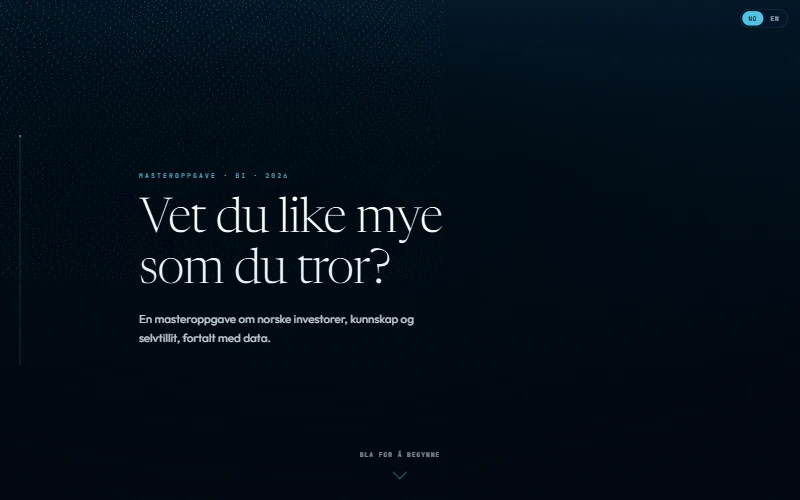
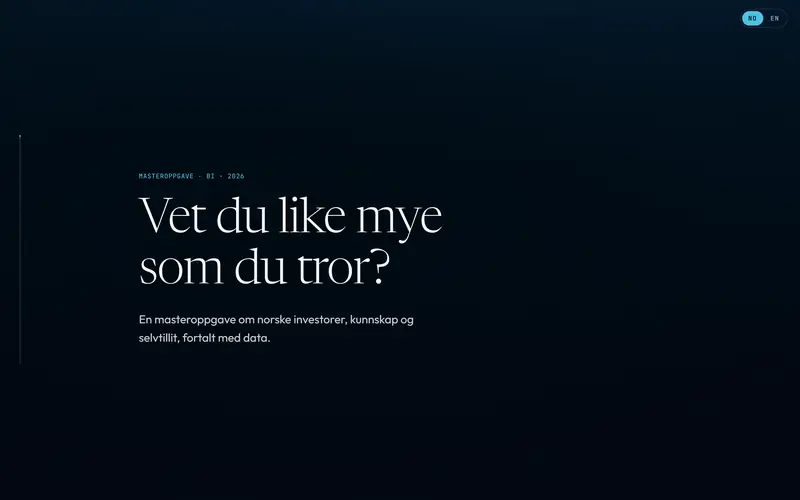
prosjekter: nytt kort for masteroppgaven uten partikkelfeltet
Tatt fra live etter f6a2323. Rulleposisjonen 980 traff nå en tom graf midt i
scrollytellingen, så kortet viser heroen (scroll 0) som før. 27 -> 7 KB.

diff --git a/scripts/gen_project_screenshots.py b/scripts/gen_project_screenshots.py
@@ -39,7 +39,7 @@ TARGETS = [
     {"slug": "pensjonskalkulator",         "url": "https://www.evers.no/pensjonskalkulator/",                               "scroll": 0,   "wait_ms": 4000},
     {"slug": "personligokonomi",           "url": "https://www.evers.no/personligokonomi/",                                 "scroll": 820, "wait_ms": 4000},
     {"slug": "leie-eller-eie",             "url": "https://www.evers.no/leie-eller-eie/",                                   "scroll": 0,   "wait_ms": 3500},
-    {"slug": "masteroppgave",              "url": "https://www.evers.no/prosjekter/masteroppgave/",                         "scroll": 980, "wait_ms": 3500},
+    {"slug": "masteroppgave",              "url": "https://www.evers.no/prosjekter/masteroppgave/",                         "scroll": 0,   "wait_ms": 3500},
     {"slug": "wc2026",                     "url": "https://www.evers.no/wc2026/",                                           "scroll": 0,   "wait_ms": 4000},
     {"slug": "klima",                      "url": "https://www.evers.no/klima/",                                            "scroll": 0,   "wait_ms": 3500},
     {"slug": "examprep",                   "url": "https://www.evers.no/examprep/",                                         "scroll": 0,   "wait_ms": 3500, "q": 69},

diff --git a/prosjekter/screenshots/README.md b/prosjekter/screenshots/README.md
@@ -44,7 +44,7 @@ Four files are over the per-file cap:
 | File | Size | Dimensions |
 |---|---|---|
 | `aksjeskatt.webp` | 53 KB | 1280×900 |
-| `masteroppgave.webp` | 27 KB | 800×500 |
+| `masteroppgave.webp` | 7 KB | 800×500 |
 | `examprep.webp` | 25.2 KB | 800×500 |
 | `wc2026.webp` | 25.1 KB | 800×500 |
 
